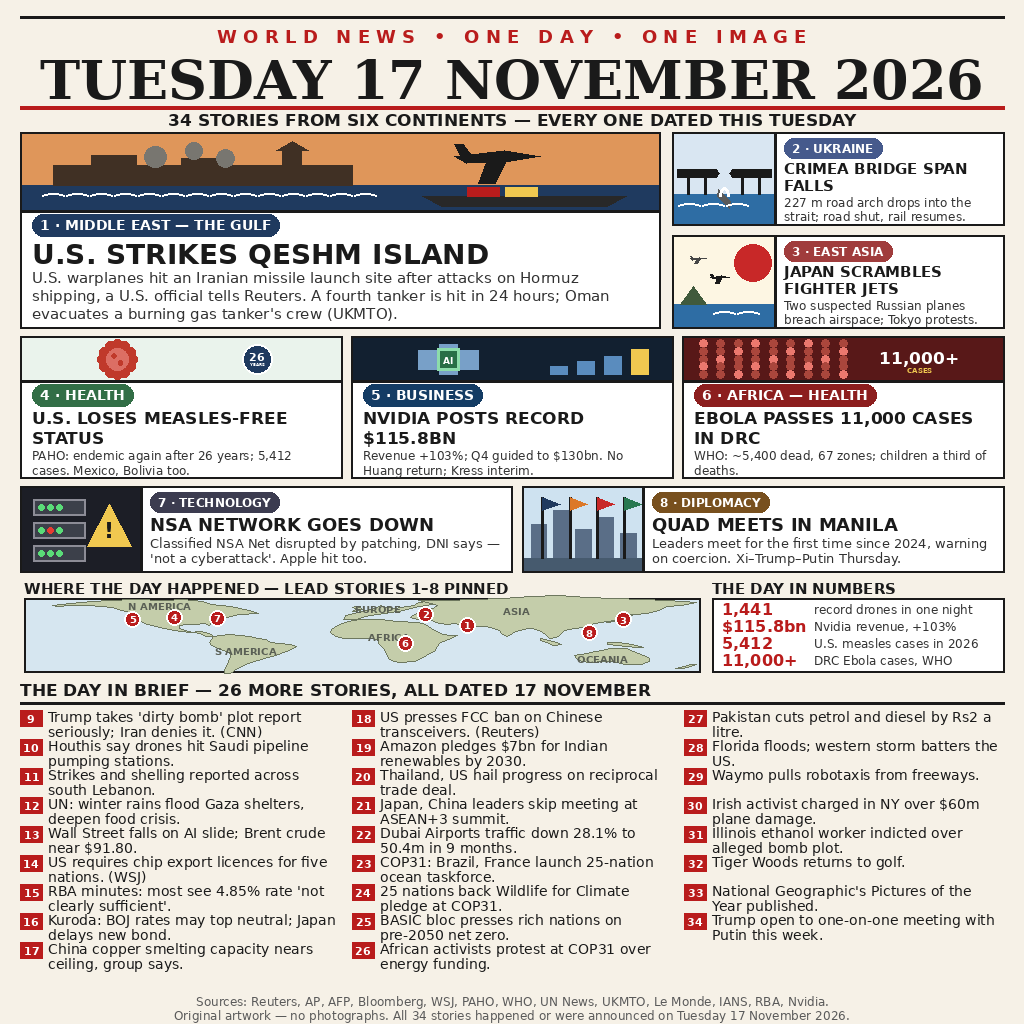
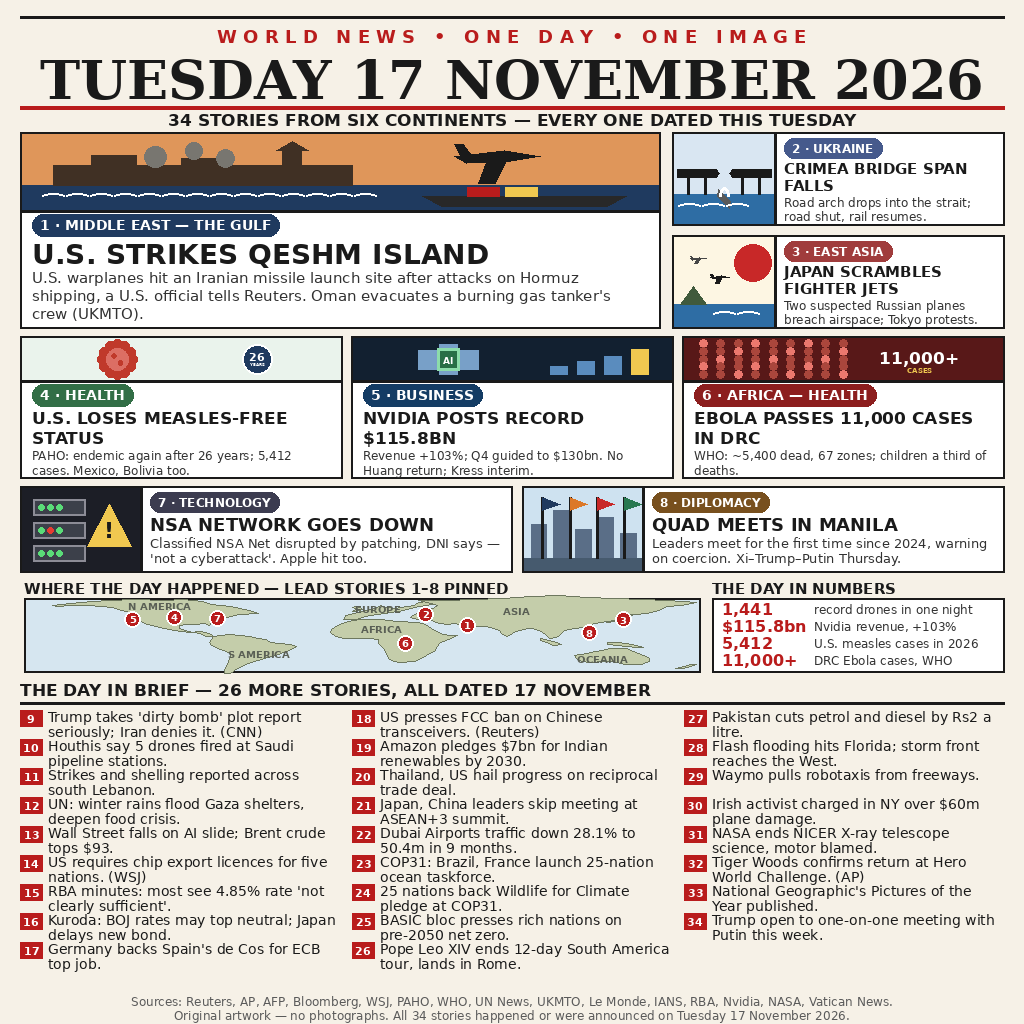
v3: date-verified text fixes, breadth swaps, map labels

diff --git a/render.py b/render.py
@@ -15,11 +15,11 @@ on Tuesday 17 November 2026, each checked against dated news reports:
   quarter (company); DRC Ebola passes 11,000 cases (WHO); NSA Net outage
   (DNI: patching, not a cyberattack); Quad meets in Manila.
   Briefs cover the Gulf, Lebanon, Gaza, markets, chips, Australia, Japan,
-  China, India, Thailand, ASEAN, Dubai, COP31, Pakistan, US weather,
-  tech, courts, sport and culture. Items first reported on other days
-  (EU-Rwanda hub, Zaporizhzhia toll, U19 Asia Cup final, Rio Tinto
-  Panguna, Gaza joint statement, Depardieu, COP31 draft) were checked
-  and excluded.
+  Europe, India, Thailand, ASEAN, Dubai, COP31, Pakistan, US weather,
+  tech, courts, sport, culture, South America and science. Items first
+  reported on other days (EU-Rwanda hub, Zaporizhzhia toll, U19 Asia Cup
+  final, Rio Tinto Panguna, Gaza joint statement, Depardieu, COP31 draft,
+  China copper smelting) were checked and excluded.
 
 Deterministic: fixed geometry, fixed fonts, fixed palette, no clock, no
 randomness, no network. Re-running produces byte-identical output.
@@ -282,8 +282,8 @@ CONTINENTS = [
 MAP_PINS = [(1, 56, 27), (2, 34, 45), (3, 139, 36), (4, -100, 40),
             (5, -122, 37), (6, 23, -3), (7, -77, 39), (8, 121, 15)]
 
-MAP_LABELS = [("N AMERICA", -108, 60), ("S AMERICA", -62, -14), ("EUROPE", 8, 55),
-              ("AFRICA", 14, 10), ("ASIA", 82, 52), ("OCEANIA", 128, -27)]
+MAP_LABELS = [("N AMERICA", -108, 60), ("S AMERICA", -55, -18), ("EUROPE", 8, 55),
+              ("AFRICA", 10, 22), ("ASIA", 82, 52), ("OCEANIA", 128, -27)]
 
 
 def draw_map(d, x, y, w, h):
@@ -361,14 +361,14 @@ def side_card(d, x, y, w, h, num, tag, tagfill, head, sub, art, art_w,
 
 BRIEFS = [
     "Trump takes 'dirty bomb' plot report seriously; Iran denies it. (CNN)",
-    "Houthis say drones hit Saudi pipeline pumping stations.",
+    "Houthis say 5 drones fired at Saudi pipeline stations.",
     "Strikes and shelling reported across south Lebanon.",
     "UN: winter rains flood Gaza shelters, deepen food crisis.",
-    "Wall Street falls on AI slide; Brent crude near $91.80.",
+    "Wall Street falls on AI slide; Brent crude tops $93.",
     "US requires chip export licences for five nations. (WSJ)",
     "RBA minutes: most see 4.85% rate 'not clearly sufficient'.",
     "Kuroda: BOJ rates may top neutral; Japan delays new bond.",
-    "China copper smelting capacity nears ceiling, group says.",
+    "Germany backs Spain's de Cos for ECB top job.",
     "US presses FCC ban on Chinese transceivers. (Reuters)",
     "Amazon pledges $7bn for Indian renewables by 2030.",
     "Thailand, US hail progress on reciprocal trade deal.",
@@ -377,13 +377,13 @@ BRIEFS = [
     "COP31: Brazil, France launch 25-nation ocean taskforce.",
     "25 nations back Wildlife for Climate pledge at COP31.",
     "BASIC bloc presses rich nations on pre-2050 net zero.",
-    "African activists protest at COP31 over energy funding.",
+    "Pope Leo XIV ends 12-day South America tour, lands in Rome.",
     "Pakistan cuts petrol and diesel by Rs2 a litre.",
-    "Florida floods; western storm batters the US.",
+    "Flash flooding hits Florida; storm front reaches the West.",
     "Waymo pulls robotaxis from freeways.",
     "Irish activist charged in NY over $60m plane damage.",
-    "Illinois ethanol worker indicted over alleged bomb plot.",
-    "Tiger Woods returns to golf.",
+    "NASA ends NICER X-ray telescope science, motor blamed.",
+    "Tiger Woods confirms return at Hero World Challenge. (AP)",
     "National Geographic's Pictures of the Year published.",
     "Trump open to one-on-one meeting with Putin this week.",
 ]
@@ -407,12 +407,12 @@ def main():
     feature(d, 20, 132, 640, 196, 1, "MIDDLE EAST \u2014 THE GULF", NAVY,
             "U.S. STRIKES QESHM ISLAND",
             "U.S. warplanes hit an Iranian missile launch site after attacks on "
-            "Hormuz shipping, a U.S. official tells Reuters. A fourth tanker is hit "
-            "in 24 hours; Oman evacuates a burning gas tanker's crew (UKMTO).",
+            "Hormuz shipping, a U.S. official tells Reuters. "
+            "Oman evacuates a burning gas tanker's crew (UKMTO).",
             art_qeshm, 76, head_size=28, sub_size=15)
     side_card(d, 672, 132, 332, 93, 2, "UKRAINE", (70, 90, 140),
               "CRIMEA BRIDGE SPAN FALLS",
-              "227 m road arch drops into the strait; road shut, rail resumes.",
+              "Road arch drops into the strait; road shut, rail resumes.",
               art_bridge, 100, head_size=15, sub_size=12)
     side_card(d, 672, 235, 332, 93, 3, "EAST ASIA", (160, 60, 60),
               "JAPAN SCRAMBLES FIGHTER JETS",
@@ -483,7 +483,7 @@ def main():
     f_foot = font(SANS, 12)
     centre(d, 994,
            "Sources: Reuters, AP, AFP, Bloomberg, WSJ, PAHO, WHO, UN News, UKMTO, "
-           "Le Monde, IANS, RBA, Nvidia.",
+           "Le Monde, IANS, RBA, Nvidia, NASA, Vatican News.",
            f_foot, GREY)
     centre(d, 1008,
            "Original artwork \u2014 no photographs. All 34 stories happened or were "
